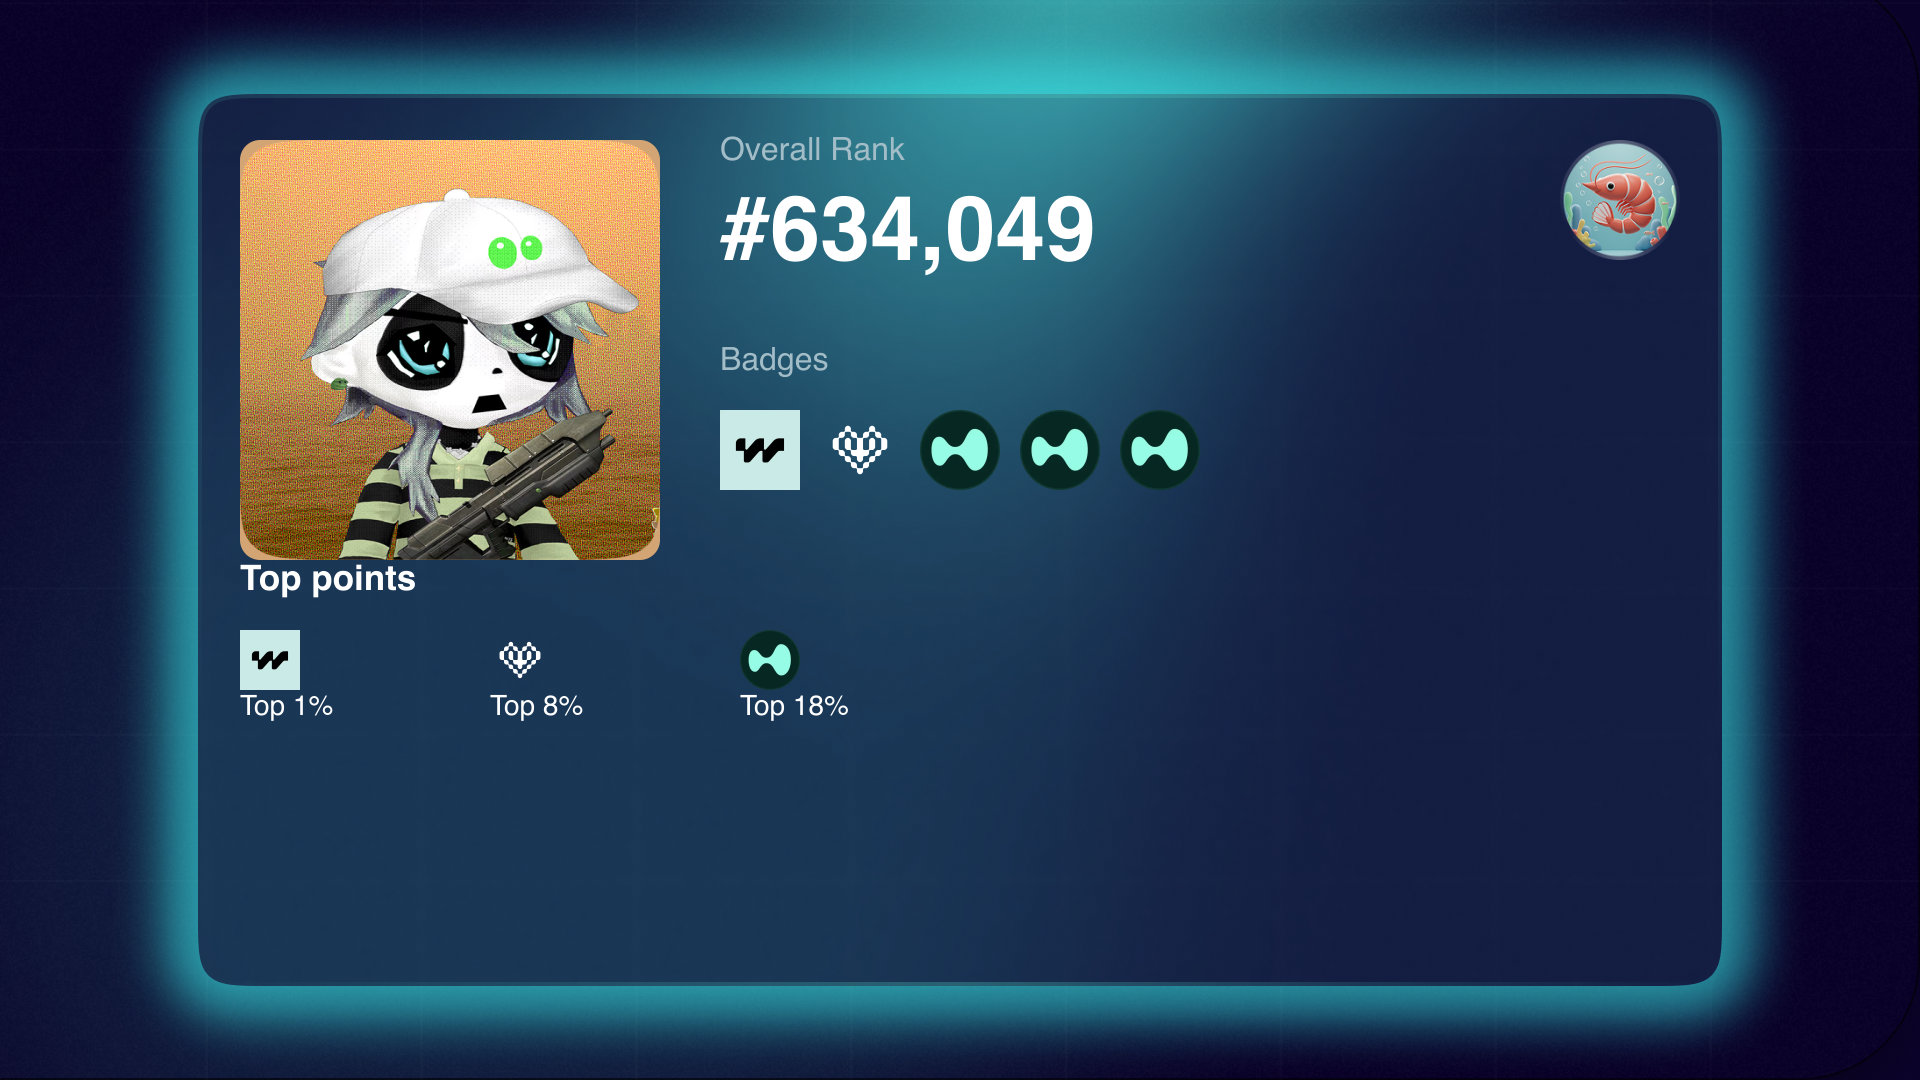
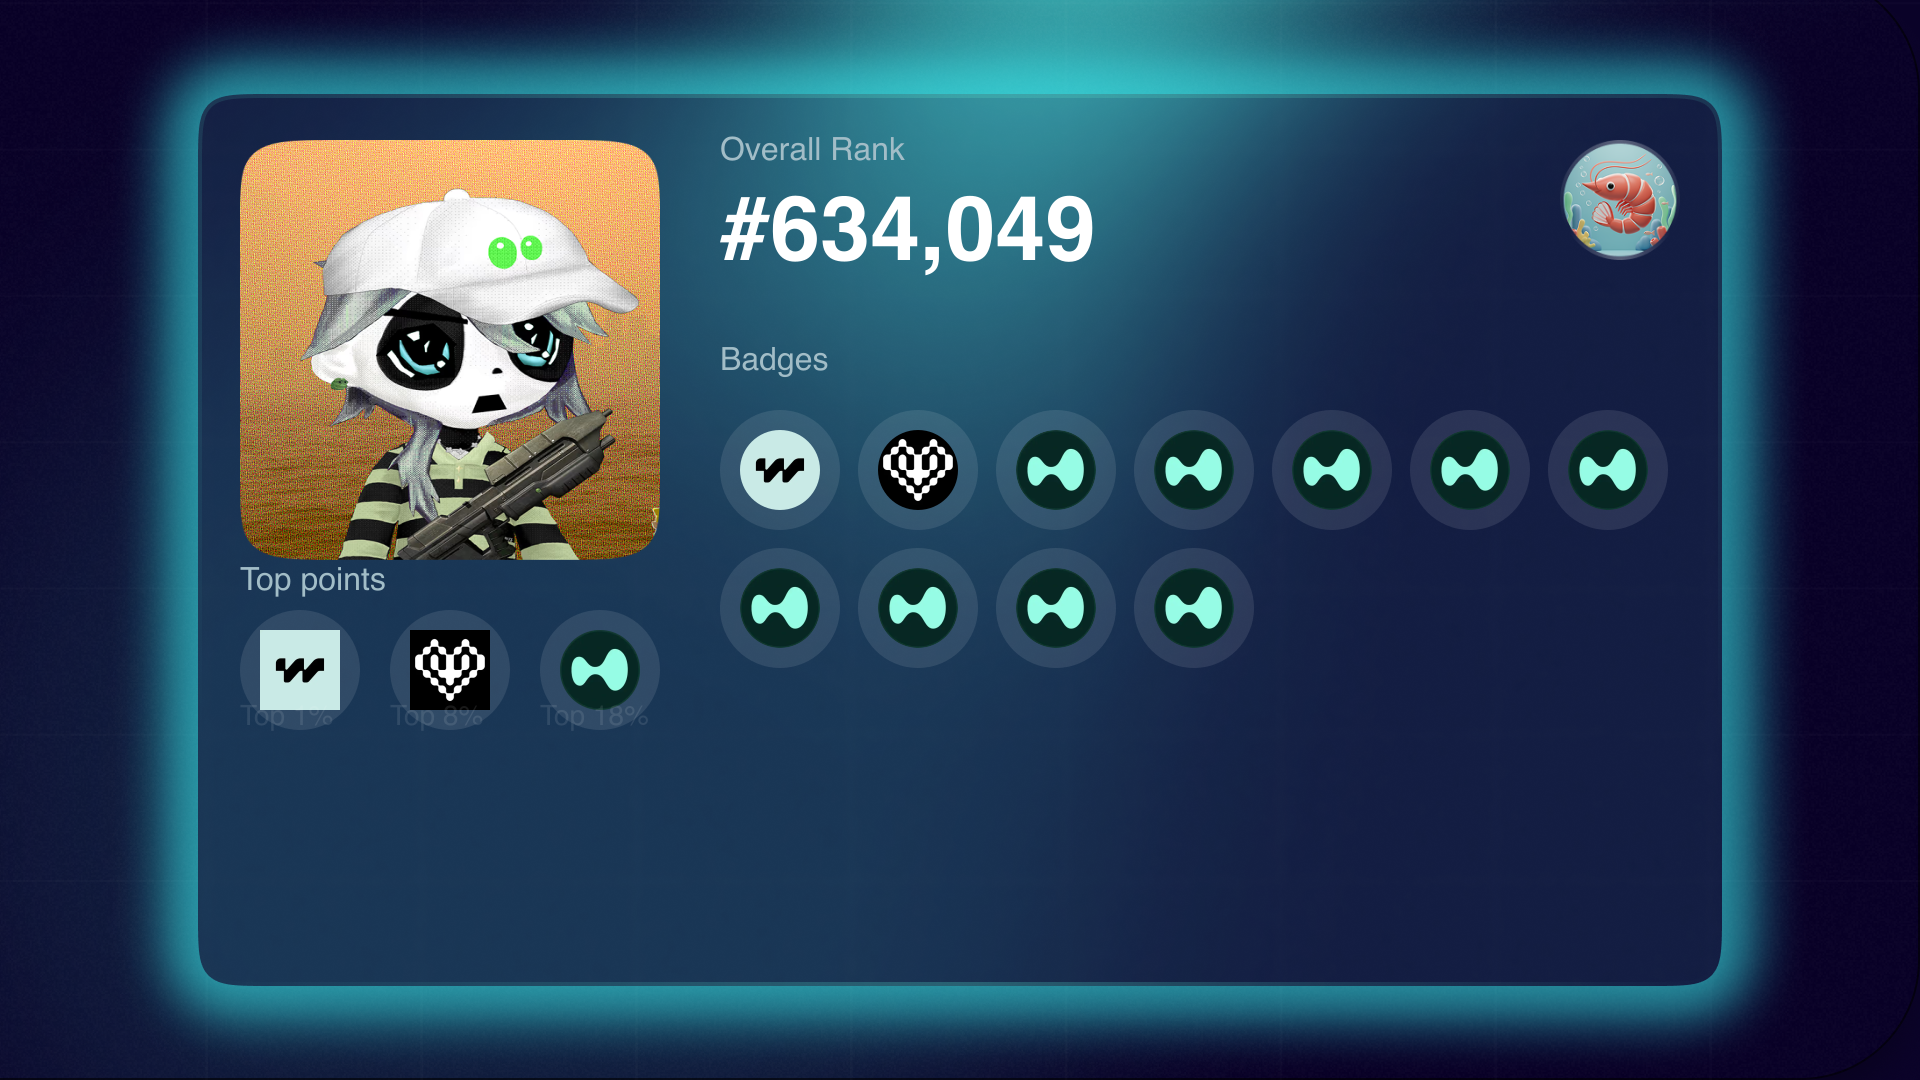
images-generation

diff --git a/images-generation/generateImage.js b/images-generation/generateImage.js
@@ -29,11 +29,41 @@ async function loadImageSafe(imagePath, baseDir = __dirname) {
   return loadImage(fullPath);
 }
 
+/* ---------------------------------------------------------
+   Draw icon inside rounded padded background
+--------------------------------------------------------- */
+function drawRoundedIcon(ctx, img, x, y, size, padding = 40, circular = false) {
+  const bgSize = size + padding * 2;
+  const circleRadius = bgSize / 2;
+
+  // Background
+  ctx.fillStyle = "rgba(255, 255, 255, 0.1)";
+  ctx.beginPath();
+  ctx.arc(x + circleRadius, y + circleRadius, circleRadius, 0, Math.PI * 2);
+  ctx.fill();
+
+  // Icon (centered inside)
+  const iconX = x + padding;
+  const iconY = y + padding;
+  
+  if (circular) {
+    // Clip to circle for rounded badge
+    ctx.save();
+    ctx.beginPath();
+    ctx.arc(iconX + size / 2, iconY + size / 2, size / 2, 0, Math.PI * 2);
+    ctx.clip();
+    ctx.drawImage(img, iconX, iconY, size, size);
+    ctx.restore();
+  } else {
+    ctx.drawImage(img, iconX, iconY, size, size);
+  }
+}
+
 async function generateProfileImage(jsonPath, outputPath) {
   const data = JSON.parse(fs.readFileSync(jsonPath, "utf8"));
   const baseDir = path.dirname(path.resolve(jsonPath));
 
-  // Canvas (same as screenshot)
+  // Canvas size (same as screenshot)
   const width = 1920;
   const height = 1080;
 
@@ -67,9 +97,8 @@ async function generateProfileImage(jsonPath, outputPath) {
   const avatarBoxSize = 420;
 
   // Background behind avatar
-  ctx.fillStyle = "#D4A574"; // golden-orange
+  ctx.fillStyle = "#3F6279";
   ctx.beginPath();
-  ctx.roundRect(avatarBoxX, avatarBoxY, avatarBoxSize, avatarBoxSize, 20);
   ctx.fill();
 
   const avatar = await loadImageSafe(data.avatar, baseDir);
@@ -79,21 +108,22 @@ async function generateProfileImage(jsonPath, outputPath) {
    Top Points
   --------------------------------------------------------- */
   let tpY = avatarBoxY + avatarBoxSize + 30;
-  ctx.fillStyle = "white";
-  ctx.font = "bold 35px Manrope";
-
+  ctx.fillStyle = "#A2BDC7";
+  ctx.font = "32px Manrope";
   ctx.fillText("Top points", avatarBoxX, tpY);
 
   let tpX = avatarBoxX;
-  const tpIconSize = 60;
-  const tpSpacing = 250;
+  const tpIconSize = 80;
+  const tpSpacing = 150;
 
   for (const tp of data.topPoints) {
-    const icon = await loadImageSafe(tp.icon, baseDir);
-    ctx.drawImage(icon, tpX, tpY + 40, tpIconSize, tpIconSize);
+    const icon = await loadImageSafe(`badges/${tp.icon}.webp`, baseDir);
+
+    // Rounded padded icon
+    drawRoundedIcon(ctx, icon, tpX, tpY + 20, tpIconSize, 20);
 
     ctx.font = "28px Manrope";
-    ctx.fillText(tp.label, tpX, tpY + 40 + tpIconSize + 25);
+    ctx.fillText(tp.label, tpX, tpY + 20 + tpIconSize + 35);
 
     tpX += tpSpacing;
   }
@@ -137,8 +167,8 @@ async function generateProfileImage(jsonPath, outputPath) {
   ctx.fillText("Badges", rightSectionX, currentY);
 
   const badgeSize = 80;
-  const badgeSpacing = 20;
-  const badgesPerRow = 5;
+  const badgeSpacing = 50;
+  const badgesPerRow = 7;
 
   let badgeX = rightSectionX;
   let badgeY = currentY + 40;
@@ -146,15 +176,15 @@ async function generateProfileImage(jsonPath, outputPath) {
 
   for (let badgePath of data.badges) {
     const badgeImg = await loadImageSafe(badgePath, baseDir);
-    ctx.drawImage(badgeImg, badgeX, badgeY, badgeSize, badgeSize);
 
-    badgeX += badgeSize + badgeSpacing;
+    drawRoundedIcon(ctx, badgeImg, badgeX, badgeY, badgeSize, 20, true);
+
+    badgeX += badgeSize + badgeSpacing + 8; // adjust spacing
     badgeCount++;
 
-    // Line break
     if (badgeCount % badgesPerRow === 0) {
       badgeX = rightSectionX;
-      badgeY += badgeSize + badgeSpacing;
+      badgeY += badgeSize + badgeSpacing + 8;
     }
   }
 
@@ -175,15 +205,12 @@ async function generateProfileImage(jsonPath, outputPath) {
     ctx.font = "28px Manrope";
 
     const drawStat = (label, value, y) => {
-      // Label
       ctx.fillStyle = "white";
       ctx.fillText(`${label}: `, gX, y);
 
-      // Measure label width
       const labelWidth = ctx.measureText(`${label}: `).width;
       const valueX = gX + labelWidth;
 
-      // Value box
       ctx.fillStyle = "#5B9BD5";
       const padding = 8;
 
@@ -195,7 +222,6 @@ async function generateProfileImage(jsonPath, outputPath) {
       ctx.roundRect(valueX - padding, y - boxHeight + 5, boxWidth, boxHeight, 6);
       ctx.fill();
 
-      // Value text
       ctx.fillStyle = "white";
       ctx.fillText(value, valueX, y);
     };
